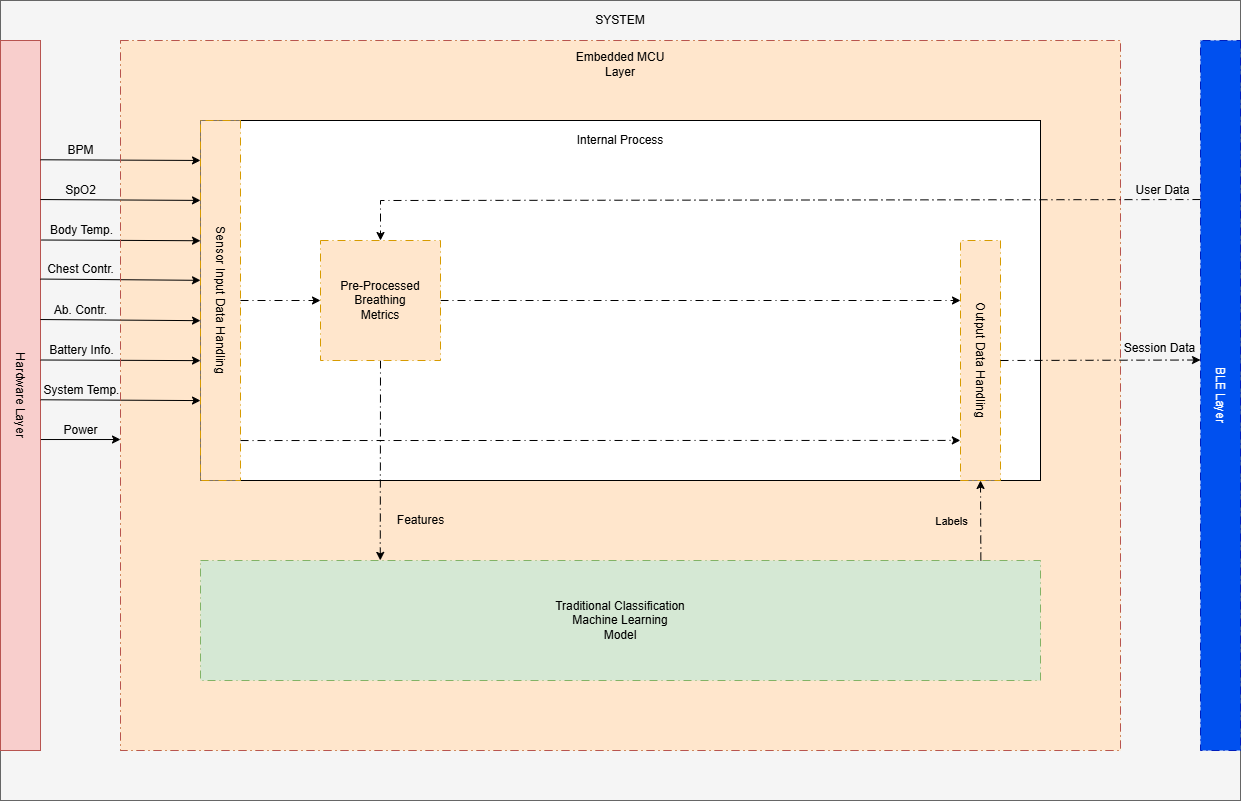
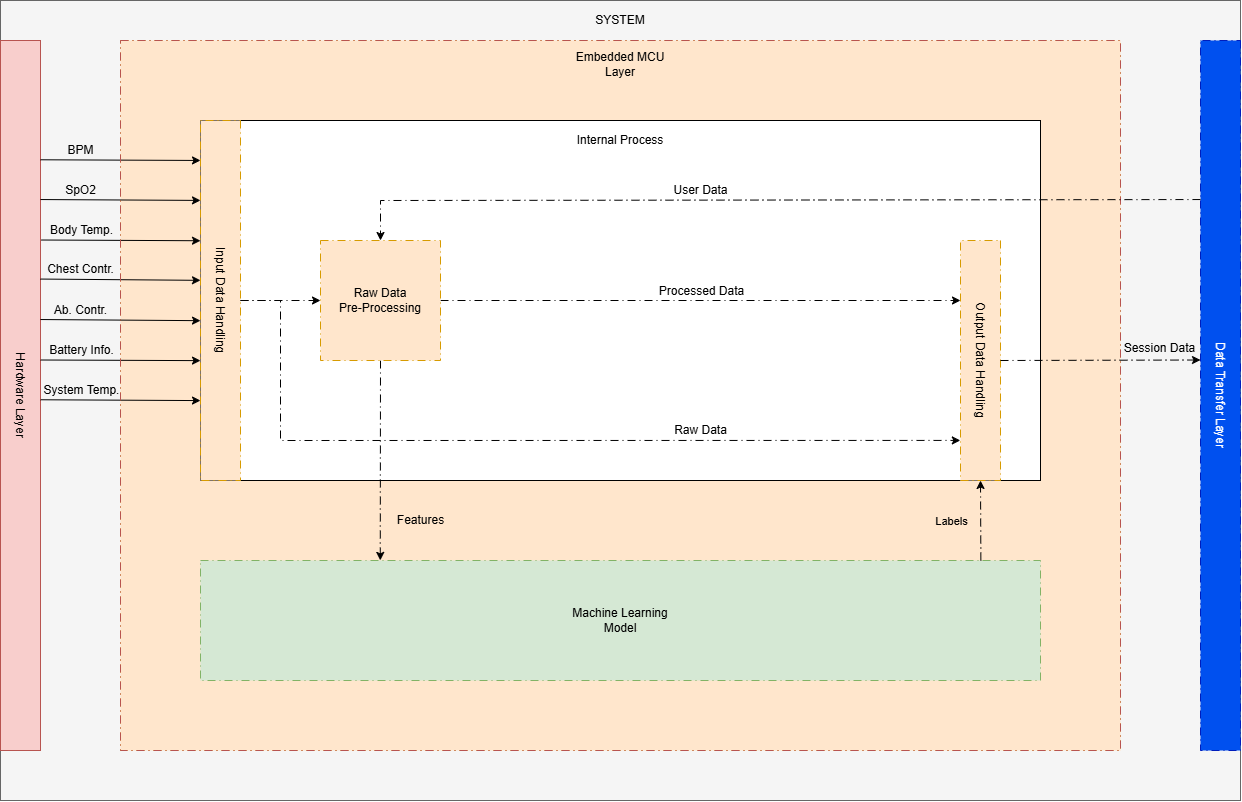
Layer Architecture Updates

diff --git a/system-architecture/white-box.md b/system-architecture/white-box.md
@@ -4,6 +4,8 @@
 
 This file will contain a detailed white box diagram for the ABTRS System Architecture.  This diagram will build off of the black box architecture that was presented in PHASE I of the capstone project.  The scope of this diagram will focus on the internal processes described in the black box diagram.  Specific software business logic and hardware details will be shared in the ```software-documentation``` and ```hardware-documentation``` folder, respectively.
 
+**NOTE:** In the diagram below, there will be layers, processes and arrows that are represented with both solid and dashed lines.  For solid lines, this generally means that the components, process, input, or output is physical (*i.e., pertaining to the hardware*).  Contrarily, in most cases, if the lines are dotted, this represents virtual components of the system (*i.e., pertaining to the software*).
+
 ## 2. Diagram
 
 <div align="center">
@@ -22,7 +24,7 @@ The system being developed for this project contains several interconnecting, an
 
 <br>
 
-The image above provides an expanded view of the hardware layer, as well as the different physical components contained within it.  The *Battery Sensing & Management Sub-Circuit* has been decomposed to illustrate the many components which have been selected to create it.  Namely, this sub-circuit is composed of The USB-C charging port and LiPo Battery connector, which will be used to connect the peripheral power sources to the ABTRS system.  In addition, this sub-circuit uses a Nordic Power Management Integrated Chip (*PMIC*), which regulates the power distribution between the charging, battery, and microcontroller endpoints.  The PMIC also sends battery information to the MCU layer, which will be useful to transmit to our mobile application layer.  In terms of input signals, three of our five signals are transmitted digitally, whereas the other two are purely analog, meaning that a dedicated *Signal Processing Sub-Circuit* module is needed to attenuate any present noise.  Finally, once the input signals have been processed by the MCU layer, they must packaged, encoded, and compressed, before being transmitted over BLE by the *BLE Sub-Circuit* module.
+The image above provides an expanded view of the hardware layer, as well as the different physical components contained within it.  The *Battery Sensing & Management Sub-Circuit* has been decomposed to illustrate the many components which have been selected to create it.  Namely, this sub-circuit is composed of and external AC power source used to charge the internal power source as needed, between sessions.  On the other hand, the internal power source is used for system operation during a given session.  In addition, this sub-circuit uses a Power Management Integrated Chip (*PMIC*), which regulates the power distribution between the charging, battery, and microcontroller endpoints.  The PMIC also sends battery information to the MCU layer, which will be useful to transmit to our mobile application layer.  In terms of input signals, three of our five signals are transmitted digitally, whereas the other two are purely analog, meaning that a dedicated *Signal Processing Sub-Circuit* module is needed to attenuate any present noise.  Finally, once the input signals have been processed by the MCU layer, they must packaged, encoded, and compressed, before being transmitted to the mobile application layer via the data transfer layer.
 
 <br>
 
@@ -34,7 +36,7 @@ The image above provides an expanded view of the hardware layer, as well as the 
 
 <br>
 
-The image above provides an expanded view of the ambedded microcontroller layer, called the *MCU Layer*.  Here, the MCU layer is built on C/C++ to create a fast and reliable data processing and handling framework for the ABTRS system.  The input handling logic will capture and clean any remaining noise present within the input signals, before passing it to the pre-processing logic.  In addition, certain characteristics of the user, such as their age, bioligical sex, weight, etc., will be sent from the mobile app to microcontroller over BLE, to provide contextual information.  The pre-processing logic will infer several calculated metrics over a given window of time, extracting distinguishable *features* from the data.  Such features will be passed to a *Traditional Classification Machine Learning Model*, hosted on the microcontroller.  From these features, the algorithm will output certain *labels*, which will then be passed back to the primary internal process of the MCU layer.  Finally, the input signals, calculated, windowed metrics, and labels will be packaged, encoded, compressed, and sent to the BLE layer.
+The image above provides an expanded view of the ambedded microcontroller layer, called the *MCU Layer*.  Here, the MCU layer is built on C/C++ to create a fast and reliable data processing and handling framework for the ABTRS system.  The input handling logic will capture and clean any remaining noise present within the input signals, before passing it to the pre-processing logic.  In addition, certain characteristics of the user, such as their age, bioligical sex, weight, etc., will be sent from the mobile app to microcontroller via the data transfer layer to provide contextual information.  The pre-processing logic will infer several calculated metrics over a given window of time, extracting distinguishable *features* from the data.  Such features will be passed to a *Machine Learning Model*, hosted on the microcontroller.  From these features, the algorithm will output certain *labels*, which will then be passed back to the primary internal process of the MCU layer.  Finally, the input signals, calculated, windowed metrics, and labels will be packaged, encoded, compressed, and sent to the data transfer layer.
 
 <br>
 
@@ -46,7 +48,7 @@ The image above provides an expanded view of the ambedded microcontroller layer,
 
 <br>
 
-The image above provides an expanded view of the bridge between the MCU and Mobile Application layers, known as the *BLE Layer*.  This is a purely virtual layer created using a Generic Attribute Profile (*GATT*) Bluetooth Low-Energy (*BLE*) communication protocol.  Information communicated from the mobile application layer to the MCU layer consists of relevant user data which will provide contextual data for the microcontroller-hosted machine learning model.  In the other direction, a high-volume, real-time data stream will be running throughout a given post-exercise recovery session.  Due to the nature of this data stream, and the specific architecture chosen for the mobile application, using an uncompressed data stream will cause the mobile application layer to fail.  As such, the ```Protobuf``` protocol buffer framework must be implemented to lighten the load of the BLE layer.  In accordance with this framework, specific libraries are needed for both the MCU and mobile application layers, in their respective languages.
+The image above provides an expanded view of the bridge between the MCU and Mobile Application layers, known as the *Data Transfer Layer*.  This is a purely virtual layer created using a continuous data communication protocol.  Information communicated from the mobile application layer to the MCU layer consists of relevant user data which will provide contextual data for the microcontroller-hosted machine learning model.  In the other direction, a high-volume, real-time data stream will be running throughout a given post-exercise recovery session.  Due to the nature of this data stream, and the specific architecture chosen for the mobile application, using an uncompressed data stream will cause the mobile application layer to fail.  As such, the ```Protobuf``` protocol buffer framework must be implemented to lighten the load of this layer.  In accordance with this framework, specific libraries are needed for both the MCU and mobile application layers, in their respective languages.
 
 <br>
 
@@ -58,18 +60,12 @@ The image above provides an expanded view of the bridge between the MCU and Mobi
 
 <br>
 
-The image above provides an expanded view of the application layer of the system, called the *Mobile Application Layer*.  Here, the layer is built as an end-to-end TypeScript Expo application.  In addition, several modules, including React Native, SQLite, and Native WebSokctes, among others, are leveraged to create support for both real-time, offline session operations, as well as asynchronous, online inter-session operations.  Due to the heavy real-time stream of data transported over the BLE layer, the application layer does not follow a traditional architecture, where the backend handles a majority of the operations, and the frontend serves as a pure user interface (*UI*).  In this case, the "backend" serves as the link between the application and cloud layers, whereas the "frontend" serve as the primary "core" or "engine" of this system layer.  During a given session, the application will process incoming data packets, sending them to be:
+The image above provides an expanded view of the application layer of the system, called the *Mobile Application Layer*.  Due to the heavy real-time stream of data transported over the data transfer layer, the application layer does not follow a traditional architecture, where the backend handles a majority of the operations, and the frontend serves as a pure user interface (*UI*).  In this case, mobile application is treated as a single layer, handling incoming/outgoing data, controlling the user interface outputs, and storing session and user data simultaneously.  During a given session, the application will process incoming data packets, sending them to be:
 
-1. Stored in a temporary ```SQLite``` database.
+1. Stored in a local database.
 2. Output to the user via several audio-visual elements.
 
-In the event that a disruption occurs during the session, a failsafe operation will be defined to ensure the session can end gracefully.  After the session has ended, provided a Wi-Fi connection has been established, the application layer will complete the following actions:
-
-1. Push the current ```SQLite``` database contents to a ```MongoDB``` database.
-2. Re-train, re-test, cross-validate, and update the reward/policy functions for the Reinforcement Learning Algorithm hosted by the cloud layer.
-3. Communicate the updated RL weights to the application layer in the form of a ```.json``` file.
-
-Finally, in terms of inter-session activity, the user will be able to view a long-term, comprehensive dashboard of their overall progress.  Hence, the inter-session operations will follow a fundamentally different data path compared to live session operations.
+In the event that a disruption occurs during the session, a failsafe operation will be defined to ensure the session can end gracefully.  In terms of inter-session activity, the user will be able to view a long-term, comprehensive dashboard of their overall progress.
 
 <br>
 
@@ -81,6 +77,6 @@ Finally, in terms of inter-session activity, the user will be able to view a lon
 
 <br>
 
-The image above provides an isolated view of the machine learning components of the system, called the *Machine Learning Layer*.  Unlike the other layers, the machine learning layer spans across the entirety of the system's software architecture.  In the MCU layer, a traditional classification machine learning model will be used to identify the breathing pace and posture of the user, which will give the system a better comprehension of their state of recovery.  This model will originally be developed, trained, and tested in Python, but will subsequently be translated to C/C++ for practical use.  The labels produced by first model will be fed to a Reinforcement Learning Model that is used in the application and cloud layers.  This second model will be used to control the pace of the real-time audio-visual cues being fed to the user.  The actual model, hosted by the Azure Cloud Space ([Section 3.5](#35-cloud-services-layer)), will be developed, trained, and tested in Python, similar to the first model.  However, a static, TypeScript-based copy will live in the application layer for practical use, where strict guardrails will be put in place to ensure the safety of the user.  The TypeScript version of the second model will be updated periodically via a shared ```.json``` file containing the relevant policy/reward weights.  Although this setup breaks certain traditional software architectures, the machine learning layer has been carefully designed to leverage the full capability of the frameworks and physical technology being used in this system.
+The image above provides an isolated view of the machine learning model used in the system, called the *Machine Learning Layer*.  The machine learning model will be deployed on the microcontroller, and as such will operate under stringent power, resource, and timing constraints.  The goal of the model is to identify the breathing pace and posture of the user, which will give the system a better comprehension of their state of recovery.  This model will originally be developed, trained, and tested in Python, but will subsequently be translated to C/C++ for practical use.  To maximize the performance of the model, the design of the model must strike a balance between the size and accuracy of the model, taking into account the aforementioned constraints.
 
 <br>
